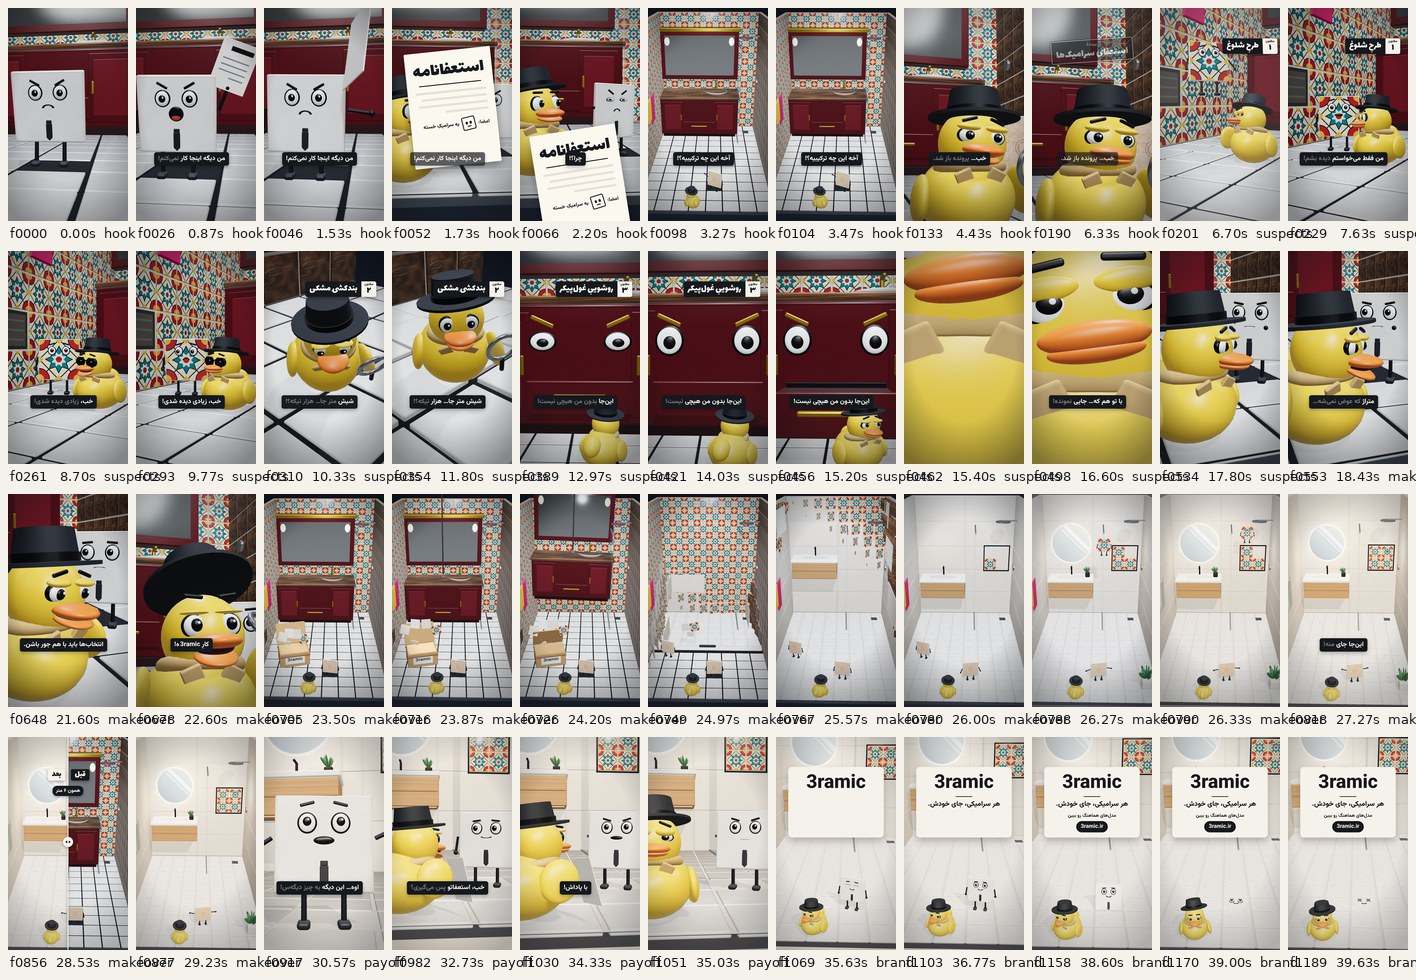
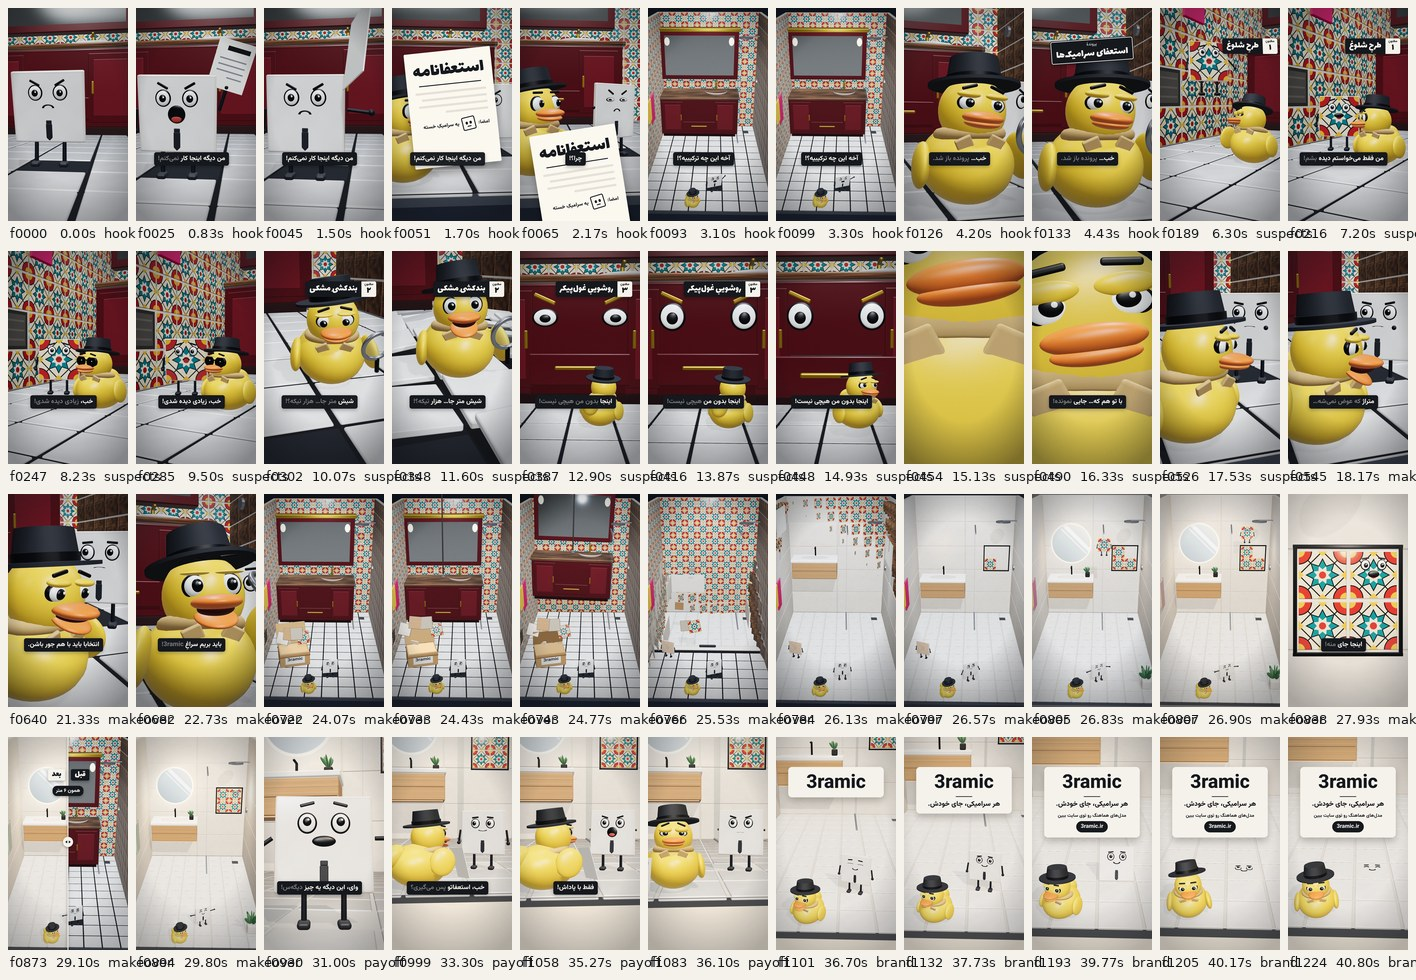
Release 2.1: QA evidence from the delivered render
- Delivered MP4: 1080x1920, 30 fps, 1226 frames, 40.87 s; audio -14.55 LUFS, -1.29 dBTP;
  Whisper on the MP4's own audio 0.969 (brand close 1.00)
- docs/qa contact sheets extracted from the MP4, new cover and first frame

Claude-Session: https://claude.ai/code/session_014YmgaAQCwrzFuHZM5aHdqF

diff --git a/3ramic-motion-film/docs/QA-REPORT.md b/3ramic-motion-film/docs/QA-REPORT.md
@@ -51,7 +51,8 @@ to the film here: where a check needs ears (acting, comic timing, music taste) i
 | Every line over the effects | ≥ 9.0 LU | clear on a phone |
 | Clarity per line after shaping (Whisper) | mean 0.987, every line ≥ 0.94 | — |
 | Clarity through the finished mix | mean 0.973 (hook 0.95, suspects 0.98, makeover 0.98, payoff 0.96, brand 1.00) | — |
-| Delivered MP4 audio | RENDER_AUDIO | same targets |
+| Delivered MP4 audio (AAC decoded) | −14.55 LUFS, −1.29 dBTP, mono −0.09 LU | same targets |
+| Clarity in the delivered MP4 | mean 0.969 (hook 0.95, suspects 0.97, makeover 0.97, payoff 0.96, brand 1.00 — «سرامیک هر سرامیکی جای خودش») | — |
 
 Files: `production/qa/audio-report.json`, `production/qa/dialogue-in-mix.json`,
 `production/voice/VOICE-REPORT.md`, `production/prosody.json`.
@@ -60,7 +61,7 @@ Files: `production/qa/audio-report.json`, `production/qa/dialogue-in-mix.json`,
 
 Key moments rendered as stills and checked at full and phone size: `docs/qa/contact-sheet.jpg`,
 `docs/qa/contact-sheet-phone-size.jpg` (taken from the delivered MP4), cover `docs/qa/cover-1080x1920.jpg`.
-Render: RENDER_STATS.
+Render: `npm run render` → `out/3ramic-reel-1080x1920.mp4`, H.264 1080×1920 30 fps, 1226 frames, 40.87 s, stereo AAC 48 kHz, 92.5 MB, about 50 min on 4 CPU cores (software WebGL).
 
 ## Release-blocking checklist
 
